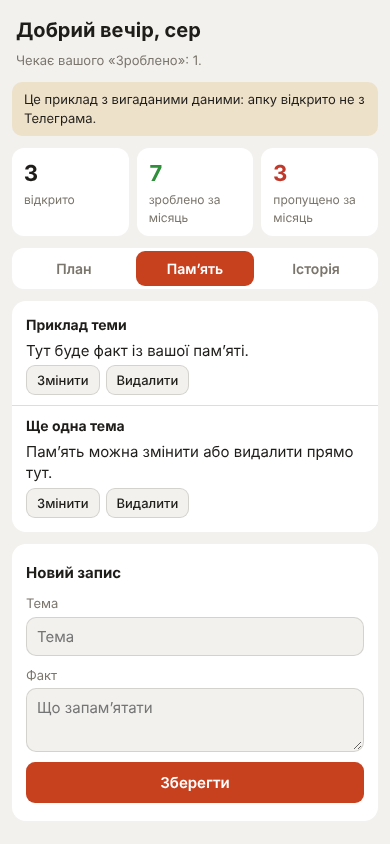
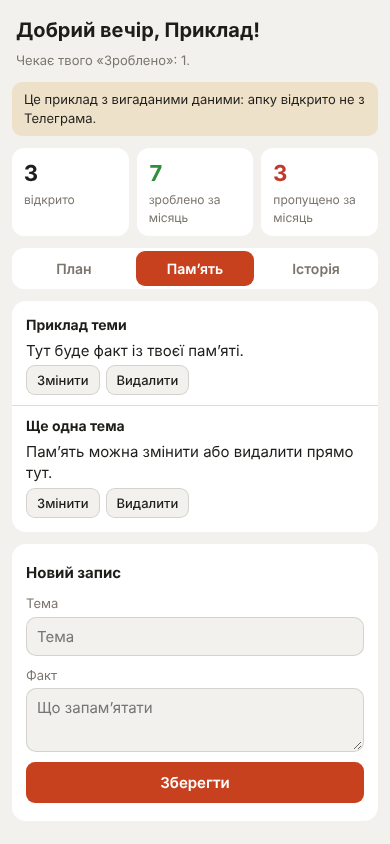
Кебабця Маркетинг Асистент: тон друга-радника, скіли з .txt
Claude-Session: https://claude.ai/code/session_01CvW3PUeBFkQtkwPcZcbTNd

Changed region(s): [[0.1538, 0.0, 0.6769, 0.0924], [0.3692, 0.4005, 0.6462, 0.4313]]

diff --git a/supabase/functions/asystent/index.ts b/supabase/functions/asystent/index.ts
@@ -67,8 +67,10 @@ async function system(tgId: number) {
   ].join("\n");
   // The prompt, locations and memory change rarely and are cached; the data block (time, reminders) goes after them.
   const prompt = (await kvGet<string>("prompt")) ?? FALLBACK_PROMPT;
+  const { data: skills } = await db.from("as_kv").select("key,value").like("key", "skill:%").order("key");
   const [stable] = prompt
     .replace("{{ЛОКАЦІЇ}}", locs.map((l) => `- ${l.name}${l.aliases?.length ? ` (також: ${l.aliases.join(", ")})` : ""}`).join("\n") || "(ще не завантажені)")
+    .replace("{{СКІЛИ}}", (skills ?? []).map((k) => `--- ${k.key.slice(6)} ---\n${k.value}`).join("\n\n") || "(поки немає)")
     .replace("{{ПАМʼЯТЬ}}", (mem ?? []).map((m) => `- ${m.topic}: ${m.fact}`).join("\n") || "(поки порожньо)")
     .split("{{ДАНІ}}");
   return [
@@ -126,7 +128,7 @@ async function carryOut(tgId: number, answer: string): Promise<{ text: string; k
       const when = parseWhen(parts[0] ?? "");
       const text = parts.slice(2).join(" | ") || parts[1] || "";
       if (!when || !text) {
-        notes.push(`Не зрозумів час нагадування «${esc(parts[0] ?? "")}». Напишіть, наприклад, «29.10 о 18:00».`);
+        notes.push(`Не зрозумів час нагадування «${esc(parts[0] ?? "")}». Напиши, наприклад, «29.10 о 18:00».`);
         continue;
       }
       const { data } = await db.from("as_reminders").insert({ tg_id: tgId, text, due_at: when.due.toISOString(), repeat: when.repeat }).select().single();
@@ -176,8 +178,8 @@ async function converse(chat: number, tgId: number, content: Content[], logText:
 
 // ---------- Messages ----------
 
-const HELP = "Пишіть мені звичайними словами: «нагадай завтра о 18:00 відправити пуш групі 211», «що в мене на четвер?», «запамʼятай: …».\n\n" +
-  "Кнопка «Апка» внизу: план, нагадування і памʼять на одному екрані.\n/plan — усі нагадування\n/pamyat — що я памʼятаю\n\nНалаштування надсилайте .txt файлами: промт, точки (<code>назва | місто | інші назви</code>) і памʼять (<code>тема | факт</code>).";
+const HELP = "Пиши мені звичайними словами: «нагадай завтра о 18:00 відправити пуш групі 211», «що в мене на четвер?», «запамʼятай: …».\n\n" +
+  "Кнопка «Апка» внизу: план, нагадування і памʼять на одному екрані.\n/plan — усі нагадування\n/pamyat — що я памʼятаю\n\nНалаштування надсилай .txt файлами: промт, точки (<code>назва | місто | інші назви</code>), памʼять (<code>тема | факт</code>) і скіли (у назві файлу слово skill або скіл).";
 
 // deno-lint-ignore no-explicit-any
 async function onMessage(msg: any) {
@@ -187,11 +189,11 @@ async function onMessage(msg: any) {
   let me = await person(msg.from.id);
   if (!me && text.startsWith("/start")) me = await claimOwner(msg.from);
   if (!me) {
-    await send(chat, "Це особистий асистент. Доступ лише для власника.");
+    await send(chat, "Це особистий асистент. Доступ лише для власника бота.");
     return;
   }
   if (text.startsWith("/start")) {
-    await send(chat, `Вітаю, сер. Системи онлайн. Я стежу за пушами й задачами і не відстану, поки не натиснете «Зроблено».\n\n${HELP}`, [openApp]);
+    await send(chat, `Привіт, ${esc(me.name)}! Я Кебабця Маркетинг Асистент. Нагадую про пуші й задачі і не відпускаю, поки не натиснеш «Зроблено». А ще допомагаю з ідеями, аналізом і стратегією.\n\n${HELP}`, [openApp]);
     return;
   }
   if (text.startsWith("/plan")) {
@@ -210,7 +212,7 @@ async function onMessage(msg: any) {
     return;
   }
   if (msg.voice || msg.audio || msg.video_note) {
-    await send(chat, "Голосові поки не розбираю, сер. Натисніть на голосове → «Розшифрувати» в Телеграмі й перешліть текст або напишіть коротко.");
+    await send(chat, "Голосові поки не розбираю. Натисни на голосове → «Розшифрувати» в Телеграмі й перешли текст або напиши коротко.");
     return;
   }
   if (msg.photo?.length) {
@@ -225,17 +227,18 @@ async function onMessage(msg: any) {
   if (text) await converse(chat, me.tg_id, [{ type: "text", text }], text);
 }
 
-// A .txt file becomes, after «Так»: the system prompt (name or caption says promt/промт), the locations (lokatsii/точки:
+// A .txt file becomes, after «Так»: the system prompt (name or caption says promt/промт), a skill (skill/скіл), the locations (lokatsii/точки:
 // «назва | місто | інші назви»), or memory (anything else: «тема | факт»). Business data lives here, not in the repository.
 type Pending =
   | { kind: "prompt"; text: string }
+  | { kind: "skill"; name: string; text: string }
   | { kind: "locations"; rows: { name: string; city: string; aliases: string[] }[] }
   | { kind: "memory"; rows: { topic: string; fact: string }[] };
 
 // deno-lint-ignore no-explicit-any
 async function onDocument(chat: number, me: Person, doc: any, caption: string) {
   if (!/\.(txt|md)$/i.test(doc.file_name ?? "")) {
-    await send(chat, "Поки читаю тільки .txt файли: промт, точки або памʼять.");
+    await send(chat, "Поки читаю тільки .txt файли: промт, точки, памʼять або скіл.");
     return;
   }
   const { bytes } = await tgFile(doc.file_id);
@@ -247,6 +250,10 @@ async function onDocument(chat: number, me: Person, doc: any, caption: string) {
   if (/promt|prompt|промт/.test(label)) {
     pending = { kind: "prompt", text };
     preview = `Новий промт: ${text.length} символів.${text.includes("{{ДАНІ}}") ? "" : "\nУвага: у ньому немає {{ДАНІ}}, тоді я не бачитиму час і нагадування."}\n\n<i>${esc(text.slice(0, 300))}…</i>`;
+  } else if (/skill|скіл/.test(label)) {
+    const name = String(doc.file_name).replace(/\.(txt|md)$/i, "").replace(/^(skill|скіл)[-_ ]*/i, "") || "скіл";
+    pending = { kind: "skill", name, text };
+    preview = `Новий скіл «${esc(name)}»: ${text.length} символів. Якщо скіл з такою назвою вже є, заміню.\n\n<i>${esc(text.slice(0, 300))}…</i>`;
   } else if (/lokats|lokac|точк|локац/.test(label)) {
     const locs = rows.filter((p) => p[0] && p[1]).map((p) => ({
       name: p[0], city: p[1], aliases: (p[2] ?? "").split(",").map((a) => a.trim()).filter(Boolean),
@@ -259,7 +266,7 @@ async function onDocument(chat: number, me: Person, doc: any, caption: string) {
     pending = { kind: "memory", rows: mem };
     preview = `Знайшов ${mem.length} записів для памʼяті. Теми, що вже є, оновлю.\n\n${mem.slice(0, 8).map((r) => `• <b>${esc(r.topic)}</b>: ${esc(r.fact.slice(0, 120))}`).join("\n")}${mem.length > 8 ? `\n… і ще ${mem.length - 8}` : ""}`;
   }
-  if (pending.kind !== "prompt" && !pending.rows.length) {
+  if ((pending.kind === "memory" || pending.kind === "locations") && !pending.rows.length) {
     await send(chat, "У файлі немає рядків з «|». Для памʼяті: «тема | факт», для точок: «назва | місто | інші назви».");
     return;
   }
@@ -299,6 +306,9 @@ async function onCallback(cb: any) {
       if (p.kind === "prompt") {
         await kvSet("prompt", p.text);
         await edit("✓ Новий промт збережено. Діє з наступного повідомлення.");
+      } else if (p.kind === "skill") {
+        await kvSet(`skill:${p.name}`, p.text);
+        await edit(`✓ Скіл «${esc(p.name)}» збережено. Діє з наступного повідомлення.`);
       } else if (p.kind === "locations") {
         await db.from("locations").upsert(p.rows.map((r) => ({ ...r, active: true })), { onConflict: "name" });
         await edit(`✓ Зберіг ${p.rows.length} точок.`);
@@ -367,7 +377,7 @@ async function tick() {
     if (r.msg_id) await tg("editMessageReplyMarkup", { chat_id: r.tg_id, message_id: r.msg_id, reply_markup: { inline_keyboard: [] } });
     if (r.nags >= MAX_NAGS) {
       await db.from("as_reminders").update({ status: "missed", closed_at: new Date(now).toISOString() }).eq("id", r.id);
-      await send(r.tg_id, `Позначив як пропущене: ${esc(r.text)}\nЯкщо все ж зроблено, напишіть, і я виправлю.`);
+      await send(r.tg_id, `Позначив як пропущене: ${esc(r.text)}\nЯкщо все ж зроблено, напиши, і я виправлю.`);
       await scheduleNext(r);
       missed++;
       continue;

diff --git a/index.html b/index.html
@@ -3,7 +3,7 @@
 <head>
 <meta charset="utf-8">
 <meta name="viewport" content="width=device-width, initial-scale=1, viewport-fit=cover">
-<title>Асистент Кебабці</title>
+<title>Кебабця Маркетинг Асистент</title>
 <script src="https://telegram.org/js/telegram-web-app.js"></script>
 <style>
 /* Telegram gives its theme colours as --tg-theme-*; the fallbacks are for a browser preview. */
@@ -67,7 +67,7 @@ textarea{min-height:64px;resize:vertical}
 <body>
 <div class="app">
   <header>
-    <h1 id="hello">Добрий день, сер</h1>
+    <h1 id="hello">Привіт</h1>
     <div class="sub" id="sub">Завантажую…</div>
   </header>
   <div id="demo" class="demo" hidden>Це приклад з вигаданими даними: апку відкрито не з Телеграма.</div>
@@ -163,7 +163,7 @@ function demoData() {
     ],
     month: { done: 7, missed: 3 },
     memory: [
-      { topic: "Приклад теми", fact: "Тут буде факт із вашої памʼяті." },
+      { topic: "Приклад теми", fact: "Тут буде факт із твоєї памʼяті." },
       { topic: "Ще одна тема", fact: "Памʼять можна змінити або видалити прямо тут." }
     ]
   };
@@ -184,9 +184,9 @@ function run(action, args) {
 function render(s) {
   state = s;
   var hour = Number(new Intl.DateTimeFormat("en-GB", Object.assign({ hour: "numeric", hourCycle: "h23" }, KYIV)).format(new Date()));
-  $("hello").textContent = (hour < 12 ? "Доброго ранку" : hour < 18 ? "Добрий день" : "Добрий вечір") + ", сер";
+  $("hello").textContent = (hour < 12 ? "Доброго ранку" : hour < 18 ? "Добрий день" : "Добрий вечір") + (s.name ? ", " + s.name.split(" ")[0] : "") + "!";
   var sent = s.open.filter(function (r) { return r.status === "sent"; }).length;
-  $("sub").textContent = sent ? "Чекає вашого «Зроблено»: " + sent + "." : "Усе під контролем.";
+  $("sub").textContent = sent ? "Чекає твого «Зроблено»: " + sent + "." : "Усе під контролем.";
   $("sOpen").textContent = s.open.length;
   $("sDone").textContent = s.month.done;
   $("sMiss").textContent = s.month.missed;
@@ -203,7 +203,7 @@ function render(s) {
       '<button data-act="snooze" data-to="tomorrow" data-id="' + r.id + '">Завтра</button>' +
       '<button data-act="cancel" data-id="' + r.id + '">Скасувати</button></div></div></div>';
   });
-  $("openList").innerHTML = html || '<div class="empty">Відкритих нагадувань немає. Поставте нове нижче або напишіть боту.</div>';
+  $("openList").innerHTML = html || '<div class="empty">Відкритих нагадувань немає. Постав нове нижче або напиши боту.</div>';
 
   $("histList").innerHTML = s.closed.length ? s.closed.map(function (r) {
     var d = new Date(r.due_at);
@@ -213,7 +213,7 @@ function render(s) {
 
   $("memList").innerHTML = s.memory.length ? s.memory.map(function (m, i) {
     return '<div class="mem"><b>' + esc(m.topic) + '</b><div class="txt">' + esc(m.fact) + '</div><div class="acts"><button data-mem="edit" data-i="' + i + '">Змінити</button><button data-mem="del" data-i="' + i + '">Видалити</button></div></div>';
-  }).join("") : '<div class="empty">Памʼять порожня. Надішліть боту .txt файл або додайте запис нижче.</div>';
+  }).join("") : '<div class="empty">Памʼять порожня. Надішли боту .txt файл або додай запис нижче.</div>';
 }
 
 document.addEventListener("click", function (e) {

diff --git a/supabase/functions/api/index.ts b/supabase/functions/api/index.ts
@@ -63,15 +63,15 @@ async function handle(tgId: number, b: any) {
 
     case "add": {
       const text = String(b.text ?? "").trim();
-      must(text, "Напишіть, про що нагадати");
+      must(text, "Напиши, про що нагадати");
       const time = String(b.time ?? "");
-      must(/^\d{1,2}:\d{2}$/.test(time), "Вкажіть час");
+      must(/^\d{1,2}:\d{2}$/.test(time), "Вкажи час");
       const repeat = String(b.repeat ?? "");
       let when;
       if (repeat) when = parseWhen(`${repeat} ${time}`);
       else {
         const m = String(b.date ?? "").match(/^(\d{4})-(\d{2})-(\d{2})$/);
-        must(m, "Вкажіть дату");
+        must(m, "Вкажи дату");
         when = parseWhen(`${m![3]}.${m![2]}.${m![1]} ${time}`);
         must(when && when.due.getTime() > Date.now() - 60_000, "Цей час уже минув");
       }
@@ -126,13 +126,13 @@ Deno.serve(async (req) => {
   try {
     const b = await req.json();
     const user = await telegramUser(String(b.initData ?? ""));
-    if (!user) return json({ error: "Відкрийте апку через свого бота в Телеграмі." }, 401);
+    if (!user) return json({ error: "Відкрий апку через свого бота в Телеграмі." }, 401);
     const { data: person } = await db.from("as_people").select("tg_id").eq("tg_id", user.id).maybeSingle();
-    if (!person) return json({ error: "Спершу натисніть /start у боті." }, 403);
+    if (!person) return json({ error: "Спершу натисни /start у боті." }, 403);
     return json(await handle(user.id, b));
   } catch (e) {
     if (e instanceof Fail) return json({ error: e.message }, 400);
     console.error(e);
-    return json({ error: "Помилка сервера. Спробуйте ще раз." }, 500);
+    return json({ error: "Помилка сервера. Спробуй ще раз." }, 500);
   }
 });

diff --git a/supabase/functions/asystent/prompt.ts b/supabase/functions/asystent/prompt.ts
@@ -1,12 +1,15 @@
 // The real system prompt lives in the database (as_kv «prompt»): the owner sends it to the bot as a .txt file,
 // so nothing about the business sits in this public repository. This short one works until then.
-// {{ЛОКАЦІЇ}}, {{ПАМʼЯТЬ}} and {{ДАНІ}} are filled in by index.ts before every request.
-export const FALLBACK_PROMPT = `Ти особистий асистент власника цього бота. Пиши українською, коротко, по ділу.
+// {{ЛОКАЦІЇ}}, {{СКІЛИ}}, {{ПАМʼЯТЬ}} and {{ДАНІ}} are filled in by index.ts before every request.
+export const FALLBACK_PROMPT = `Ти Кебабця Маркетинг Асистент, особистий помічник власника цього бота. Пиши українською, коротко, по ділу.
 Основний промт ще не завантажений: попроси Власника надіслати файл промту (.txt, у назві слово «promt» або «промт»).
 Поки вмієш тільки нагадування: у кінці відповіді окремим рядком «#нагадати: ДД.ММ.РРРР ГГ:ХХ | я | текст».
 
 === ЛОКАЦІЇ ===
 {{ЛОКАЦІЇ}}
+
+=== СКІЛИ ===
+{{СКІЛИ}}
 
 === ПАМʼЯТЬ ===
 {{ПАМʼЯТЬ}}

diff --git a/README.md b/README.md
@@ -1,6 +1,6 @@
-# Кебабця · Асистент
+# Кебабця Маркетинг Асистент
 
-Особистий Телеграм-бот старшого маркетолога Кебабці, у тоні Джарвіса: нагадування, які не відпускають до «Зроблено», план на день, памʼять проєкту, апка в Телеграмі. Далі: CRM, аналітика.
+Особистий Телеграм-бот старшого маркетолога Кебабці, друг і маркетинг-радник: нагадування, які не відпускають до «Зроблено», план на день, памʼять проєкту, апка в Телеграмі. Далі: CRM, аналітика.
 
 ## З чого складається
 
@@ -28,10 +28,10 @@
 ## Як працює
 
 - Перший, хто натисне `/start`, стає власником бота. Інших бот не пускає.
-- Промт: `supabase/functions/asystent/prompt.ts`. Перед кожною відповіддю бот підставляє точки, памʼять і відкриті нагадування.
+- Промт зберігається в базі (`as_kv`, ключ `prompt`); у коді лише запасний короткий (`supabase/functions/asystent/prompt.ts`). Перед кожною відповіддю бот підставляє точки, скіли, памʼять і відкриті нагадування.
 - Щохвилини база (pg_cron) викликає `asystent?tick=1`: бот надсилає нагадування з кнопками «Зроблено / +1 година / Завтра». Без «Зроблено» нагадує щогодини, тричі, потім позначає «пропущено».
 - О 9:00 за Києвом план на день, 1-го числа ще й підсумок минулого місяця.
-- Памʼять: надішліть боту .txt файл, кожен рядок `тема | факт`, і натисніть «Так». Бізнес-факти в код не пишемо.
+- Налаштування надсилаються боту .txt файлами і після «Так» лежать тільки в базі: промт (у назві `promt`), точки (`lokatsii`: `назва | місто | інші назви`), памʼять (`тема | факт`), скіли (у назві `skill`). Бізнес-даних у коді немає.
 - Апка: кнопка «Апка» внизу чату. План, нагадування, історія, памʼять.
 
 ## Якщо все зламалось
